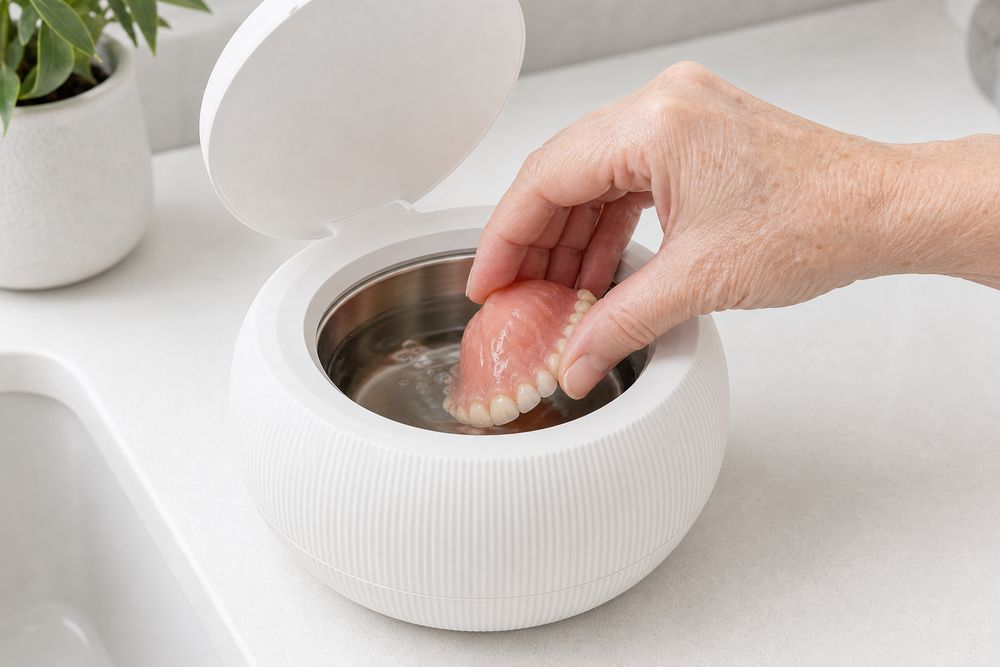
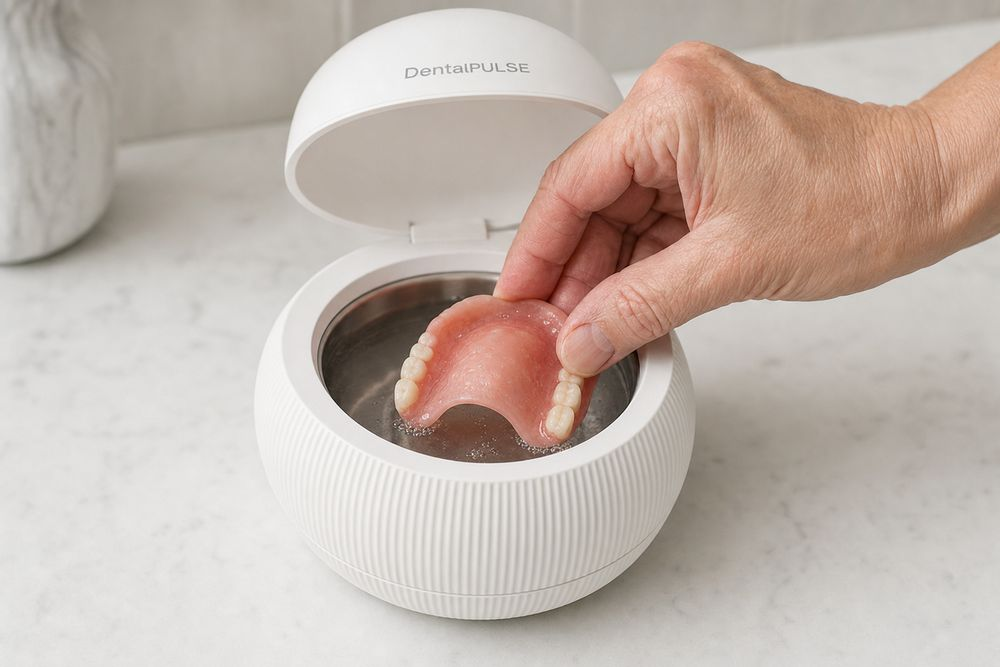
Denture LP: realistic denture photos, survey-based reviews, one timer, stronger urgency
- Regenerate 8 denture images for anatomical realism
- Replace reviews with 11 testimonials built from denture wearers' survey answers
- Drop pod-in-hand and lower-denture-in-pod shots pending regeneration at true scale
- Keep a single countdown; add announcement bar, sticky CTA bar, midnight deadline copy

Claude-Session: https://claude.ai/code/session_01L1wC5jA2bKXirxaXakhwkX

diff --git a/landing-pages/dentalpulse-dentures/index.html b/landing-pages/dentalpulse-dentures/index.html
@@ -198,6 +198,18 @@ h3{font-size:22px;font-weight:800}
 footer{border-top:1px solid var(--line);margin-top:30px;padding-block:22px 40px;text-align:center;color:var(--muted);font-size:13px}
 footer a{color:var(--muted)}
 
+
+.topbar{margin-inline:-16px;background:var(--red);color:#fff;text-align:center;font-size:15px;font-weight:600;padding:9px 16px;letter-spacing:.01em}
+.topbar b{font-weight:900}
+.deal .ends{color:var(--red);font-size:17px}
+.hurry{background:var(--red-bg);border:1px dashed var(--red);border-radius:8px;padding:10px 12px;text-align:center;font-weight:800;color:var(--red);font-size:15px;margin:0 0 12px}
+.btn{animation:pulse 2.4s ease-in-out infinite}
+@keyframes pulse{0%,100%{transform:scale(1)}50%{transform:scale(1.025)}}
+.sticky{position:fixed;left:0;right:0;bottom:0;z-index:20;display:flex;align-items:center;justify-content:space-between;gap:12px;background:var(--navy);color:#fff;padding:10px 16px calc(10px + env(safe-area-inset-bottom, 0px));box-shadow:0 -4px 16px rgba(11,31,58,.25)}
+.sticky small{display:block;color:var(--hl);font-weight:700;font-size:13px}
+.sticky a{background:var(--green);color:#fff;text-decoration:none;font-weight:900;padding:12px 18px;border-radius:8px;white-space:nowrap}
+footer{padding-bottom:90px}
+@media (prefers-reduced-motion:reduce){.btn{animation:none}}
 @media (max-width:420px){
   .hero-panel{grid-template-columns:66px 1fr 66px}
   .hero-col svg{width:34px;height:34px}
@@ -211,6 +223,7 @@ footer a{color:var(--muted)}
 </head>
 <body>
 <main class="wrap">
+<div class="topbar"><b>TODAY ONLY:</b> 40% OFF + 3 FREE Gifts · Sale ends at midnight</div>
 
 <!-- ============ HERO ============ -->
 <section>
@@ -305,14 +318,14 @@ footer a{color:var(--muted)}
   <h2>Unlike Brushing &amp; Tablets That Only Clean The Surfaces They Touch…</h2>
   <p><b>The DentalPULSE Pod</b> turns tap water into millions of microscopic bubbles that burst against every surface of your denture and <b>eliminate 99.9% of bacteria in one 5-minute cycle.</b></p>
   <div class="badge-wrap">
-    <img src="img/cavitation.jpg" alt="Micro-bubbles surrounding a denture inside the Pod's stainless-steel basin" width="1200" height="800" loading="lazy">
+    <img src="img/intro.jpg" alt="A denture in clear water inside the Pod's stainless-steel basin" width="900" height="900" loading="lazy">
     <div class="shield">Eliminates<strong>99.9%</strong>Bacteria</div>
   </div>
   <p>The bubbles reach between the teeth, into the grooves of the gum line, under the clasps of your partial, and <b>ALL</b> the places a brush has <b>NEVER</b> been able to reach.</p>
   <div class="mosaic">
     <img src="img/step2.jpg" alt="" width="900" height="600" loading="lazy">
     <img src="img/prob_food.jpg" alt="" width="600" height="600" loading="lazy">
-    <img src="img/cavitation.jpg" alt="" width="1200" height="800" loading="lazy">
+    <img src="img/step4.jpg" alt="" width="900" height="600" loading="lazy">
   </div>
   <div class="bluebox">Just add tap water, drop your dentures in, and run one 5-minute cycle. Rinse and wear.</div>
   <p>That's it.</p>
@@ -321,11 +334,11 @@ footer a{color:var(--muted)}
 
   <article class="review">
     <div class="review-head">
-      <div><h4>"White again!"</h4><div class="stars" aria-label="5 stars">★★★★★</div></div>
-      <div class="avatar" aria-hidden="true">DP</div>
+      <div><h4>"As white as when I first got it!"</h4><div class="stars" aria-label="5 stars">★★★★★</div></div>
+      <div class="avatar" aria-hidden="true">60+</div>
     </div>
-    <p>Now it is as white as when I first got it! My husband noticed they were white again.</p>
-    <div class="who">DentalPULSE customer <span>Verified buyer</span></div>
+    <p>My denture lost its whiteness and was turning yellow with Polident tablets. Now it is as white as it was when I first got it! My teeth are back to their white color and I don't worry about bacteria. My husband noticed they were white again.</p>
+    <div class="who">Denture wearer, 60+ · Used Polident tablets <span>Verified buyer</span></div>
   </article>
 </section>
 
@@ -333,9 +346,9 @@ footer a{color:var(--muted)}
 <section>
   <h2 class="center">There's Still 4 More Reasons Why Denture Wearers Everywhere Love The DentalPULSE Pod…</h2>
   <div class="grid6">
-    <img src="img/life1.jpg" alt="Grandmother holding the DentalPULSE Pod" width="600" height="600" loading="lazy">
+    <img src="img/step1.jpg" alt="Pouring tap water into the Pod" width="900" height="600" loading="lazy">
     <img src="img/life2.jpg" alt="The Pod on a bedside table" width="600" height="600" loading="lazy">
-    <img src="img/life3.jpg" alt="Grandfather placing his denture in the Pod" width="600" height="600" loading="lazy">
+    <img src="img/step2.jpg" alt="Placing a denture in the Pod" width="900" height="600" loading="lazy">
     <img src="img/step4.jpg" alt="Woman holding a clean denture" width="900" height="600" loading="lazy">
     <img src="img/intro.jpg" alt="The open Pod with a denture inside" width="900" height="900" loading="lazy">
     <img src="img/step3.jpg" alt="The Pod on a bathroom counter" width="900" height="600" loading="lazy">
@@ -364,11 +377,19 @@ footer a{color:var(--muted)}
 
   <article class="review">
     <div class="review-head">
-      <div><h4>"Cleans all the residue from denture paste"</h4><div class="stars" aria-label="5 stars">★★★★★</div></div>
-      <div class="avatar" aria-hidden="true">DP</div>
+      <div><h4>"Much cleaner without scrubbing"</h4><div class="stars" aria-label="5 stars">★★★★★</div></div>
+      <div class="avatar" aria-hidden="true">★</div>
     </div>
-    <p>Certainly cleans all the residue from denture paste.</p>
-    <div class="who">DentalPULSE customer <span>Verified buyer</span></div>
+    <p>Getting the old adhesive off with a soft toothbrush was so time consuming. Now my dentures are much cleaner without scrubbing. My wife noticed the difference.</p>
+    <div class="who">Denture wearer · Used a soft toothbrush <span>Verified buyer</span></div>
+  </article>
+  <article class="review">
+    <div class="review-head">
+      <div><h4>"So clean and ZERO stains"</h4><div class="stars" aria-label="5 stars">★★★★★</div></div>
+      <div class="avatar" aria-hidden="true">★</div>
+    </div>
+    <p>Toothpaste and a brush couldn't get into the tight spots. Now my dentures are so clean, with zero stains!</p>
+    <div class="who">Denture wearer · Used toothpaste &amp; a brush <span>Verified buyer</span></div>
   </article>
   <p>And that's just the first reason why people LOVE the DentalPULSE Pod… there's still 3 more. Including how it's…</p>
 
@@ -394,7 +415,7 @@ footer a{color:var(--muted)}
 
   <h3>What's Inside The DentalPULSE Pod?</h3>
   <div class="ingredient">
-    <header><img src="img/cavitation.jpg" alt="" width="1200" height="800" loading="lazy"><h3>42,000 Hz Ultrasonic Waves</h3></header>
+    <header><img src="img/intro.jpg" alt="" width="1200" height="800" loading="lazy"><h3>42,000 Hz Ultrasonic Waves</h3></header>
     <p>Clinical-grade ultrasonic power does the heavy lifting.</p>
     <p>It shakes loose food, dissolves the grip of old adhesive, and rips through the slimy biofilm clinging to your denture. Then the bubbles carry it all away into the water.</p>
   </div>
@@ -432,8 +453,8 @@ footer a{color:var(--muted)}
   </div>
 
   <div class="cta-block">
-    <div class="deal">New Customer Discount: <em>40% OFF</em> + 3 FREE Gifts<br>Limited Time</div>
-    <a class="btn" href="#offer">Try The DentalPULSE Pod<small>120-Day Money-Back Guarantee</small></a>
+    <div class="deal">TODAY ONLY: <em>40% OFF</em> + 3 FREE Gifts<br><span class="ends">Ends at midnight tonight</span></div>
+    <a class="btn" href="#offer">YES! Claim My 40% OFF Now →<small>Sale ends at midnight · 120-Day Money-Back Guarantee</small></a>
     <div class="risk"><span>100% Risk Free</span><span>Rated 4.8/5</span></div>
   </div>
 </section>
@@ -453,11 +474,19 @@ footer a{color:var(--muted)}
   <p>It came out <b>#1 in the 90-day lab test</b>: clinical-grade 42,000 Hz power that eliminates 99.9% of bacteria in one 5-minute cycle.</p>
   <article class="review">
     <div class="review-head">
-      <div><h4>"Much cleaner without scrubbing"</h4><div class="stars" aria-label="5 stars">★★★★★</div></div>
-      <div class="avatar" aria-hidden="true">DP</div>
+      <div><h4>"Took all the plaque off"</h4><div class="stars" aria-label="5 stars">★★★★★</div></div>
+      <div class="avatar" aria-hidden="true">60+</div>
     </div>
-    <p>Much cleaner without scrubbing.</p>
-    <div class="who">DentalPULSE customer <span>Verified buyer</span></div>
+    <p>I had a cheaper version and it wasn't removing the plaque. The DentalPULSE Pod gave them a deep clean and took all the plaque off. My wife noticed.</p>
+    <div class="who">Denture wearer, 60+ · Switched from a cheaper pod <span>Verified buyer</span></div>
+  </article>
+  <article class="review">
+    <div class="review-head">
+      <div><h4>"Cleaned a lot better than my Amazon one"</h4><div class="stars" aria-label="5 stars">★★★★★</div></div>
+      <div class="avatar" aria-hidden="true">60+</div>
+    </div>
+    <p>I had a cleaner from Amazon. It just didn't clean very well. The DentalPULSE Pod cleaned a lot better.</p>
+    <div class="who">Denture wearer, 60+ · Switched from an Amazon cleaner <span>Verified buyer</span></div>
   </article>
   <p>There's still 2 more reasons why the DentalPULSE Pod is essential for denture wearers… including:</p>
 </section>
@@ -504,16 +533,24 @@ footer a{color:var(--muted)}
 
   <article class="review">
     <div class="review-head">
-      <div><h4>"No more smell"</h4><div class="stars" aria-label="5 stars">★★★★★</div></div>
-      <div class="avatar" aria-hidden="true">DP</div>
+      <div><h4>"No more smell!"</h4><div class="stars" aria-label="5 stars">★★★★★</div></div>
+      <div class="avatar" aria-hidden="true">60+</div>
     </div>
-    <p>No more smell.</p>
-    <div class="who">DentalPULSE customer <span>Verified buyer</span></div>
+    <p>I was brushing them with Steradent paste. Too messy. Now there's no more smell and it cleans very well. My family noticed, especially my grandchildren.</p>
+    <div class="who">Denture wearer, 60+ · Used a brush &amp; Steradent <span>Verified buyer</span></div>
+  </article>
+  <article class="review">
+    <div class="review-head">
+      <div><h4>"My denture isn't slimy anymore"</h4><div class="stars" aria-label="5 stars">★★★★★</div></div>
+      <div class="avatar" aria-hidden="true">60+</div>
+    </div>
+    <p>Polident only gave them an adequate clean. Now my denture isn't slimy anymore, and my husband noticed the difference.</p>
+    <div class="who">Denture wearer, 60+ · Used Polident <span>Verified buyer</span></div>
   </article>
 
   <div class="cta-block">
-    <div class="deal">New Customer Discount: <em>40% OFF</em> + 3 FREE Gifts<br>Limited Time</div>
-    <a class="btn" href="#offer">Try The DentalPULSE Pod<small>120-Day Money-Back Guarantee</small></a>
+    <div class="deal">TODAY ONLY: <em>40% OFF</em> + 3 FREE Gifts<br><span class="ends">Ends at midnight tonight</span></div>
+    <a class="btn" href="#offer">YES! Claim My 40% OFF Now →<small>Sale ends at midnight · 120-Day Money-Back Guarantee</small></a>
     <div class="risk"><span>100% Risk Free</span><span>Rated 4.8/5</span></div>
   </div>
 </section>
@@ -589,7 +626,8 @@ footer a{color:var(--muted)}
         <li>1-Year Warranty ($14 value) <b>FREE</b></li>
       </ul>
     </div>
-    <a class="btn" href="https://dentalpulsepro.com/products/dentalpulse-pod-denture-bundle-gifts">Claim My 40% OFF + Free Gifts →</a>
+    <p class="hurry">Sale ends at midnight tonight. Free gifts ($58 value) are only included while the sale runs.</p>
+    <a class="btn" href="https://dentalpulsepro.com/products/dentalpulse-pod-denture-bundle-gifts">YES! Claim My 40% OFF + Free Gifts →</a>
     <div class="risk"><span>120-Day Money-Back Guarantee</span><span>Secure Checkout</span></div>
   </div>
 
@@ -600,6 +638,38 @@ footer a{color:var(--muted)}
   <p class="center b">But I don't think that's gonna happen because…</p>
   <h2 class="center">Denture Wearers Rate The DentalPULSE Pod <span style="color:var(--blue)">4.8/5</span></h2>
   <p class="center"><span class="stars" style="font-size:28px">★★★★★</span></p>
+  <article class="review">
+    <div class="review-head">
+      <div><h4>"Impeccable. 100% recommended!"</h4><div class="stars" aria-label="5 stars">★★★★★</div></div>
+      <div class="avatar" aria-hidden="true">★</div>
+    </div>
+    <p>I used Polident tablets and didn't know anything better existed until I found the DentalPULSE Pod. My dentures are now impeccable. 100% recommended! My husband noticed too.</p>
+    <div class="who">Denture wearer · Used Polident tablets <span>Verified buyer</span></div>
+  </article>
+  <article class="review">
+    <div class="review-head">
+      <div><h4>"I could still see food on them before"</h4><div class="stars" aria-label="5 stars">★★★★★</div></div>
+      <div class="avatar" aria-hidden="true">★</div>
+    </div>
+    <p>With a toothbrush and tablets you could still see food on the denture. Now my dentures are cleaner and smell cleaner.</p>
+    <div class="who">Denture wearer · Used a toothbrush &amp; tablets <span>Verified buyer</span></div>
+  </article>
+  <article class="review">
+    <div class="review-head">
+      <div><h4>"No more buying tablets"</h4><div class="stars" aria-label="5 stars">★★★★★</div></div>
+      <div class="avatar" aria-hidden="true">★</div>
+    </div>
+    <p>What frustrated me most was having to keep buying Polident tablets. Now I don't need anything else to keep my dentures clean. My partner noticed.</p>
+    <div class="who">Denture wearer · Used Polident tablets <span>Verified buyer</span></div>
+  </article>
+  <article class="review">
+    <div class="review-head">
+      <div><h4>"They feel fresh"</h4><div class="stars" aria-label="5 stars">★★★★★</div></div>
+      <div class="avatar" aria-hidden="true">★</div>
+    </div>
+    <p>I used Steradent tablets, then brushed them with Steradent paste. Too many things to use. Now my dentures are cleaner and they feel fresh. My friends have noticed.</p>
+    <div class="who">Denture wearer · Used Steradent <span>Verified buyer</span></div>
+  </article>
   <div class="seal-row">
     <div class="seal">Clinicians' Choice</div>
     <div><h3>Dentist-Recommended</h3><p>Clinical-grade ultrasonic cleaning, the same technology dental offices trust, now on your bathroom counter.</p></div>
@@ -626,7 +696,8 @@ footer a{color:var(--muted)}
   <p class="b">But, You Must Act Fast…</p>
   <p>We can only hold this discount for a limited time.</p>
   <p>When the timer below hits 00:00, today's price is released to the next person in line…</p>
-  <p>So don't delay! Claim your bundle right now.</p>
+  <p>So don't delay! Every night you wait is another night your dentures soak in bacteria-filled water.</p>
+  <p class="b">Claim your bundle right now.</p>
 
   <div class="timer" role="timer" aria-live="off">
     <div class="lbl">40% OFF · Sale Ends In:</div>
@@ -637,8 +708,8 @@ footer a{color:var(--muted)}
     </div>
   </div>
   <div class="cta-block">
-    <div class="deal">New Customer Discount: <em>40% OFF</em> + 3 FREE Gifts<br>Limited Time</div>
-    <a class="btn" href="#offer">Try The DentalPULSE Pod<small>120-Day Money-Back Guarantee</small></a>
+    <div class="deal">TODAY ONLY: <em>40% OFF</em> + 3 FREE Gifts<br><span class="ends">Ends at midnight tonight</span></div>
+    <a class="btn" href="#offer">YES! Claim My 40% OFF Now →<small>Sale ends at midnight · 120-Day Money-Back Guarantee</small></a>
     <div class="risk"><span>100% Risk Free</span><span>Rated 4.8/5</span></div>
   </div>
   <p>And remember, if the Pod doesn't work, you don't like it, or you don't think it makes your dentures cleaner and fresher…</p>
@@ -647,17 +718,9 @@ footer a{color:var(--muted)}
   <p>Simply claim your bundle and let the DentalPULSE Pod keep your dentures cleaner, fresher and whiter-looking!</p>
   <div class="important">
     <b>IMPORTANT</b>
-    Once this sale ends, it's back to regular pricing and you'll miss this special discount!
+    When the timer hits 00:00, today's 40% discount ends and the 3 free gifts ($58 value) are no longer included. Don't miss out!
   </div>
-  <div class="timer" role="timer" aria-live="off">
-    <div class="lbl">DON'T MISS OUT · Sale Ends In:</div>
-    <div class="clock">
-      <div><b data-t="h">00</b><small>Hours</small></div><span class="colon">:</span>
-      <div><b data-t="m">00</b><small>Minutes</small></div><span class="colon">:</span>
-      <div><b data-t="s">00</b><small>Seconds</small></div>
-    </div>
-  </div>
-  <a class="btn" href="#offer">Claim My 40% OFF + Free Gifts →</a>
+  <a class="btn" href="#offer" style="margin-top:18px">YES! Claim My 40% OFF Before Midnight →</a>
   <div class="risk"><span>120-Day Money-Back Guarantee</span><span>100% Risk Free</span></div>
 </section>
 
@@ -669,6 +732,7 @@ footer a{color:var(--muted)}
   <p>These statements are not intended to diagnose, treat, cure or prevent any disease.</p>
 </footer>
 </main>
+<div class="sticky" id="sticky" hidden><div><b>40% OFF + 3 Free Gifts</b><small>Ends at midnight tonight</small></div><a href="#offer">Claim Now →</a></div>
 
 <script>
 // Countdown to local midnight (the "today only" sale window).
@@ -682,6 +746,9 @@ footer a{color:var(--muted)}
     cells.forEach(function(c){c.textContent=v[c.dataset.t]});
   }
   tick();setInterval(tick,1000);
+  var st=document.getElementById('sticky'),offer=document.getElementById('offer');
+  function onScroll(){var r=offer.getBoundingClientRect();st.hidden=!(window.scrollY>900&&(r.bottom<0||r.top>window.innerHeight));}
+  window.addEventListener('scroll',onScroll,{passive:true});onScroll();
   document.getElementById('yr').textContent=new Date().getFullYear();
 })();
 </script>
